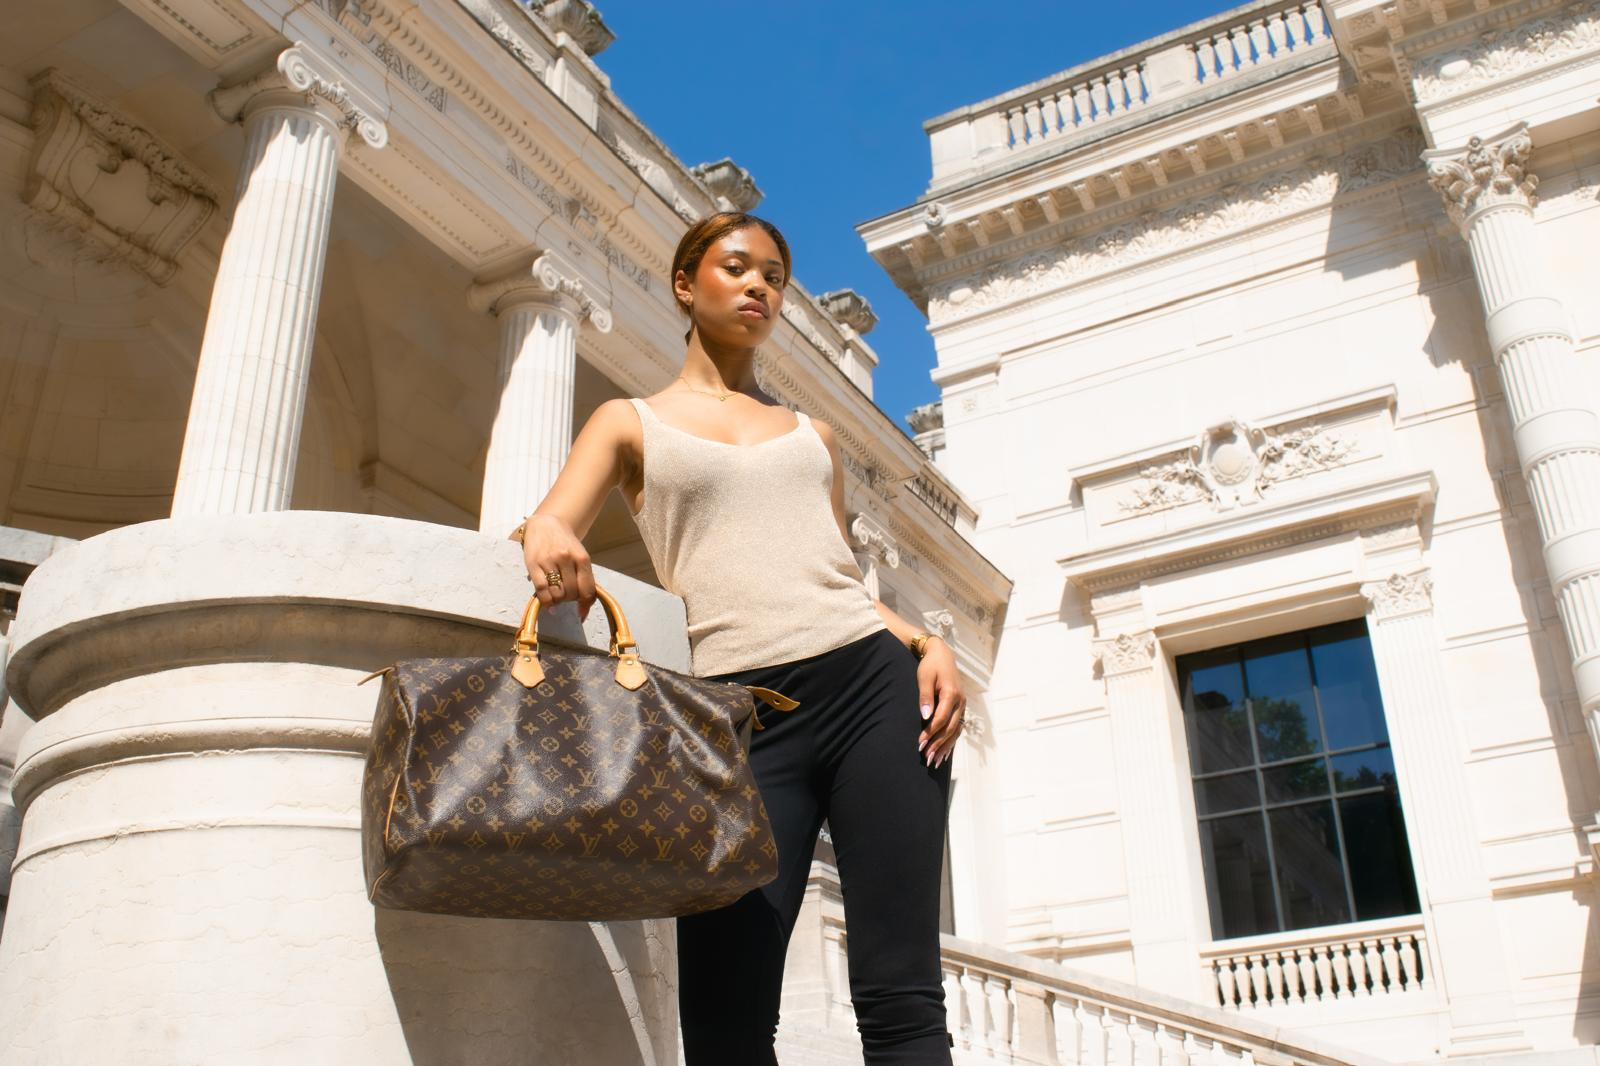
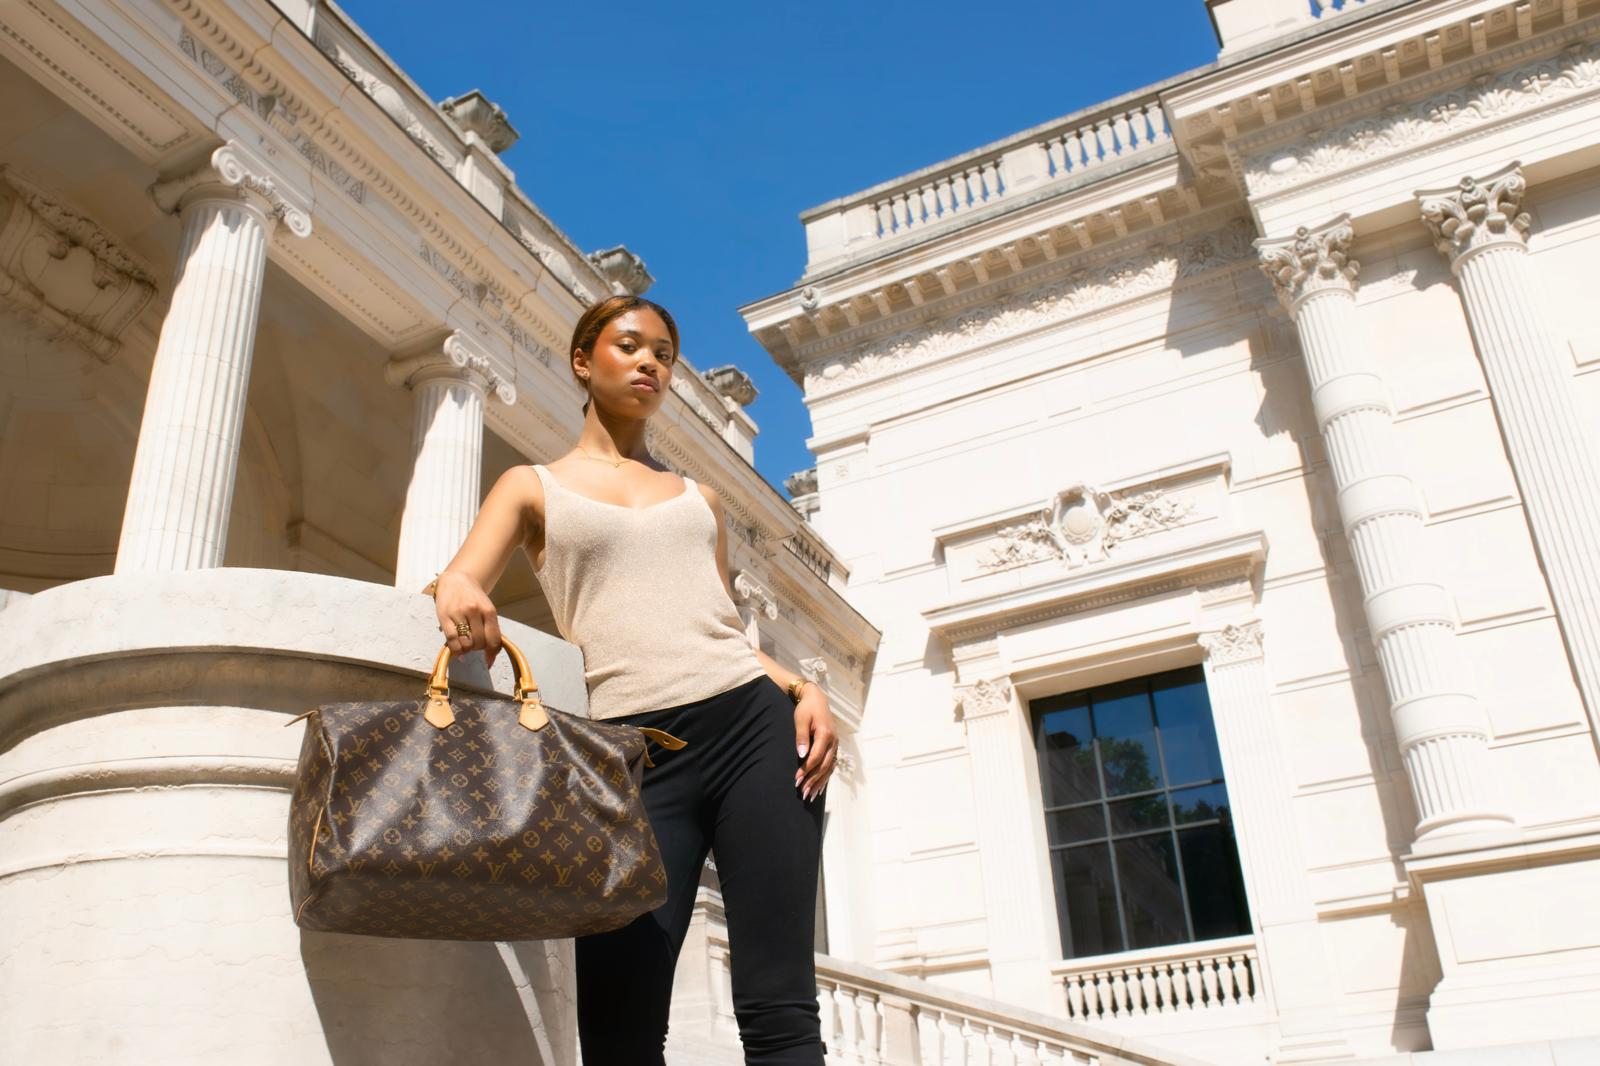
Landing B2B : hero remplacé par photo_3 (cadrage plus large)

diff --git a/src/components/landing/B2BLanding.tsx b/src/components/landing/B2BLanding.tsx
@@ -296,7 +296,7 @@ export const B2BLanding: React.FC = () => {
       {/* HERO — photo plein écran sous le header transparent, texte centré par-dessus */}
       <section>
         <div className="relative flex min-h-screen items-center overflow-hidden bg-neutral-900 pb-16 pt-28">
-        <img src={heroImg} alt="" className="absolute inset-0 h-full w-full object-cover object-[40%_30%]" />
+        <img src={heroImg} alt="" className="absolute inset-0 h-full w-full object-cover object-[35%_30%]" />
         <div className="pointer-events-none absolute inset-0 bg-black/45" />
         <div className="pointer-events-none absolute inset-0 bg-gradient-to-b from-black/40 via-transparent to-black/50" />
         <div className="relative mx-auto max-w-3xl px-4 text-center sm:px-6">
